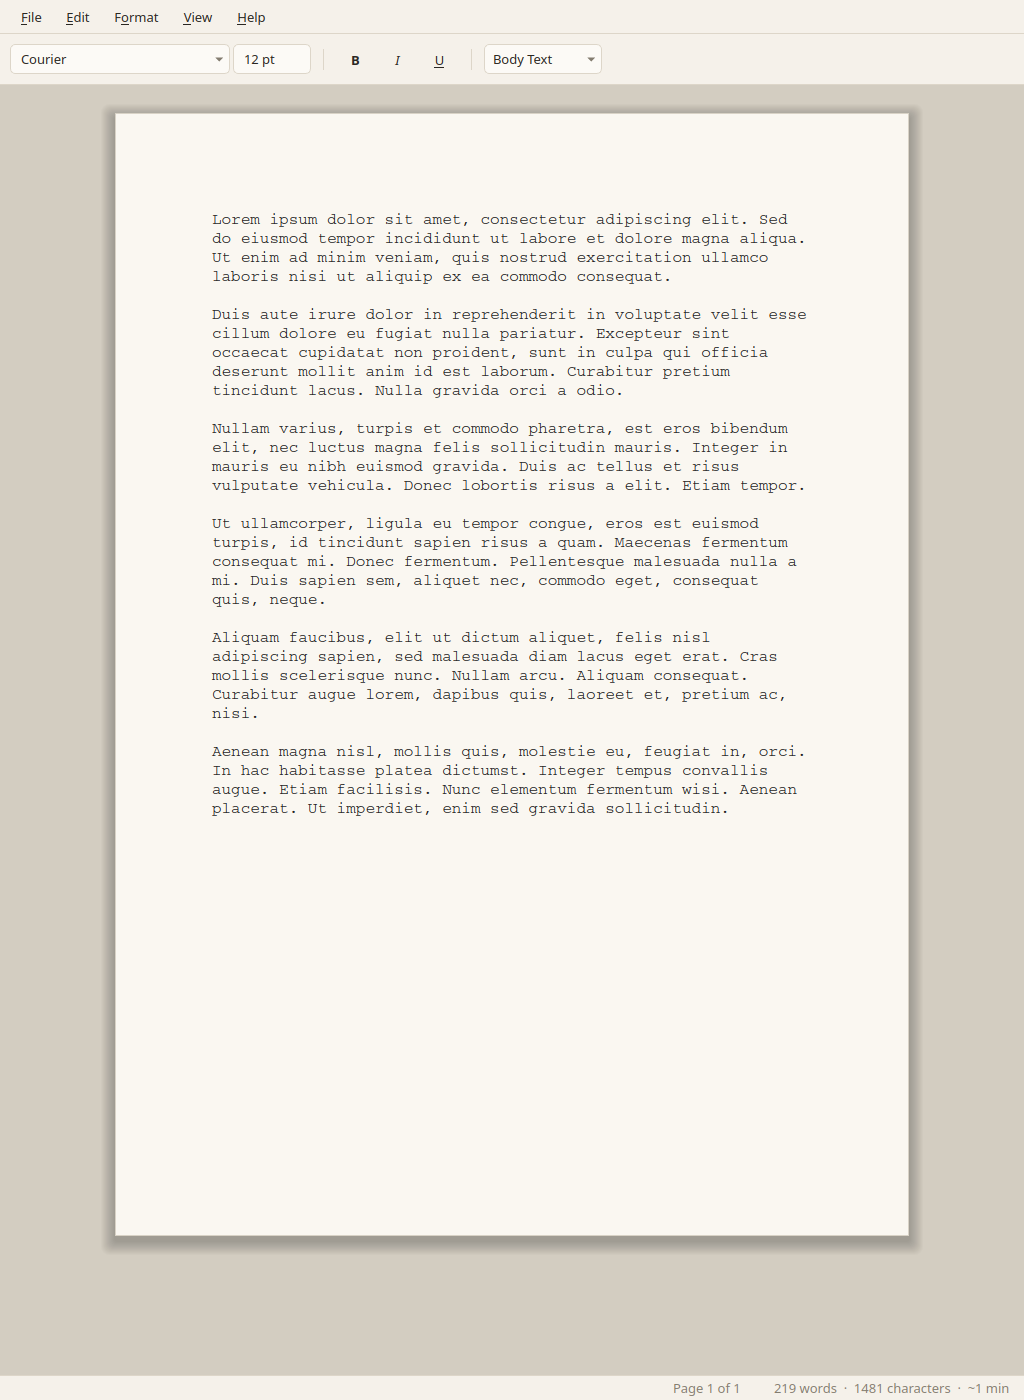
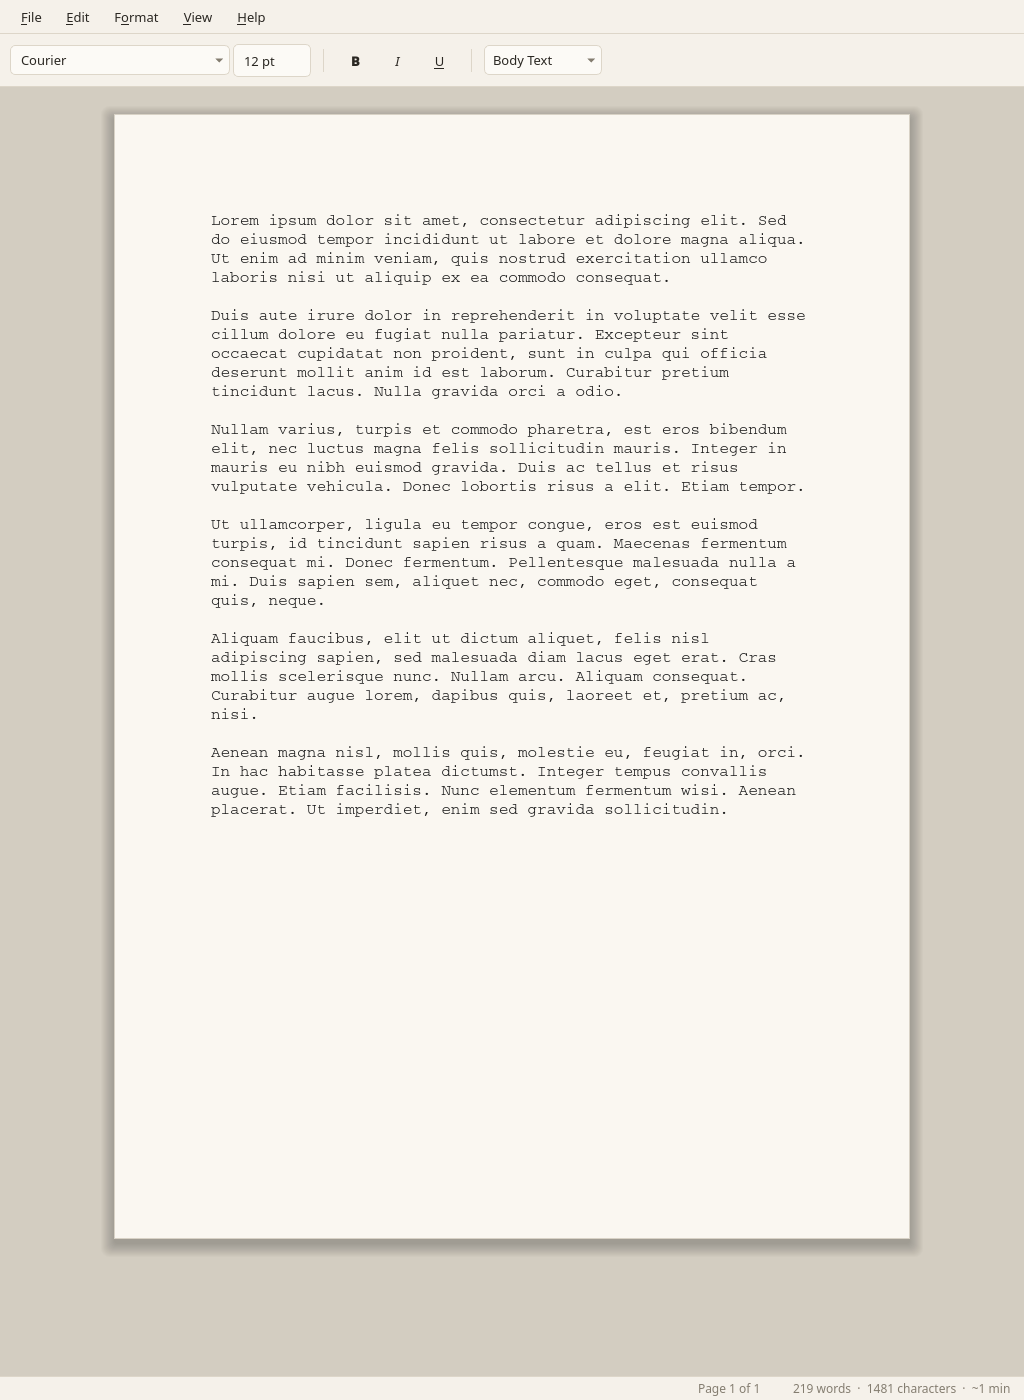
Docs: exact ODT round-trip scope, opt-in page numbers, fresh screenshots
README states what ODT round-trips and what it drops (colours, images,
footnotes, custom table borders, ...), words page numbers as opt-in/off
by default, documents ctest, and shows the new two-page screenshot.
Screenshots regenerated from the real MainWindow under Xvfb; adds
docs/screenshots/full-page-multipage.png.

diff --git a/README.md b/README.md
@@ -30,7 +30,7 @@ Working **v1 feature core** on a dark distraction-free `QTextEdit` surface.
 - **Default body face: typewriter / Courier-class monospace at 12 pt** (`Courier New` → `Courier` → `Courier Prime` → `Nimbus Mono PS` → `Liberation Mono` → `Noto Sans Mono` → `Menlo` / `Monaco` → `DejaVu Sans Mono` → `monospace`); switch/enlarge anytime via the font picker; ODT round-trip preserves face/size; print/PDF honor fonts and match Full Page density
 - **Five menus, nothing extra**: **File** (New / Open / Recent / Save / Export PDF / Print / Page Setup / Properties / Quit), **Edit** (Undo–Redo, Cut/Copy/Paste, Paste as Plain Text, Find / Replace), **Format** (B/I/U, Paragraph Style, Align, Lists, Insert Table, Table rows/columns, Insert Page Break, Page Numbers, Header & Footer, Clear Formatting), **View** (Full Page, Page Guides, Typewriter Scroll, Focus Mode, Key Sounds, Spell Check, Smart Quotes, Theme, Always Show Toolbar, Full Screen), **Help**
 - **Polished native Save/Open/Export dialogs** (Qt `QFileDialog`: Documents sidebar, last-dir via QSettings, live suffix from filter, OS overwrite confirm, Create Directory/New Folder via native panel, titles “Save Document” / “Open Document” / “Export PDF”)
-- **Native save default: ODT**; also open/save **TXT** and best-effort **RTF** (no proprietary `.zwriter`, no DOCX in v1). ODT round-trips fonts/sizes, bold/italic/underline, headings, alignment, bulleted/numbered/nested lists, tables (incl. merged cells), blank paragraphs and manual page breaks — a document reopens identically across repeated save/open cycles
+- **Native save default: ODT**; also open/save **TXT** and best-effort **RTF** (no proprietary `.zwriter`, no DOCX in v1). **What ODT round-trips:** text including repeated spaces, tabs and line breaks; font family/size; bold/italic/underline; Heading 1–3 (saved as `text:h` with an outline level, so they reopen as headings in zwriter and LibreOffice); alignment; bulleted/numbered/nested lists (nested levels keep their own numbering/bullet style, also from LibreOffice files); tables incl. merged cells; blank paragraphs; manual page breaks; header/footer text and document properties (meta.xml). After one save, further save/open cycles give the same document again (checked by `tests/odt_roundtrip_test`). **What does not:** text/highlight colours (dropped, so text follows the theme), images, footnotes, links, custom paragraph spacing/indents, and per-table styling — a reopened table always gets zwriter's standard border/padding, so custom table borders are lost. Opening a file never marks it modified
 - **Export PDF…** (export-only — not a native edit/save format) via `QPrinter` PdfFormat
 - **Print options** (lean): native OS print dialog, page setup (paper / orientation / margins; default **A4**), print preview; paper size persisted in QSettings
 - **Page guides** toggle (Ctrl+Alt+G) — simple column margin guides, not a Word ruler
@@ -45,7 +45,7 @@ Working **v1 feature core** on a dark distraction-free `QTextEdit` surface.
 - Optional typewriter key-sound toggle (**default off**) — old-manual-typewriter `key-1..6.wav` strikes (random variant per key), `space.wav` for Space/Backspace, and `return.wav` carriage slide and bell; typing/Return only (not arrow navigation)
 - Typewriter icon branding
 - **Tables** (QTextTable): Format → Insert Table…; Tab between cells; add/remove row or column; ODT + PDF/print
-- **Header & Footer** (Format → Header & Footer…): left/center/right plain-text bands; `{page}` / `{pages}` tokens; visible in Full Page, print, and PDF; ODT meta.xml round-trip; **page numbers are optional** — Format → Page Numbers toggles a centered footer `{page}` (off by default); drawn on every page
+- **Header & Footer** (Format → Header & Footer…): left/center/right plain-text bands; `{page}` / `{pages}` tokens; visible in Full Page, print, and PDF; ODT meta.xml round-trip; **page numbers are opt-in and off by default** — Format → Page Numbers adds `{page}` to an empty footer band (centre first) and removes only what it added, so custom header/footer text survives an off/on cycle; drawn on every page
 - **Manual page break** (Format → Insert Page Break, `Ctrl+Enter`): splits the paragraph and starts a new page; Backspace at the start of the new page removes it. Saved to ODT (`fo:break-before="page"`) and honoured in Full Page view, print and PDF
 - **Spell check** (View → Spell Check, default on): Hunspell en_US live underlines; right-click suggestions / ignore / add to user dictionary; no cloud grammar
 - **Help** menu: About zwriter (shows PROJECT_VERSION) + Check for Updates (GitHub releases/latest)
@@ -56,7 +56,7 @@ Working **v1 feature core** on a dark distraction-free `QTextEdit` surface.
 - Richer themes pack (beyond Paper / Dark room), autosave + restore cursor, multi-document / sessions
 - Daily word / time goal, scene / chapter navigation
 - Richer ODT/RTF style round-trip (colours, images, footnotes, per-table styling — reopened tables always get the standard border/padding); RTF is plain-text-oriented best-effort
-- ODT Properties: body save is real; metadata is patched via `unzip`/`zip` into `meta.xml` (requires those tools). If patch fails, body still saves and a status message notes it
+- ODT Properties: body save is real; metadata is patched via `unzip`/`zip` into `meta.xml` (requires those tools). If patch fails, body still saves and a status message notes it. Headings are written as `text:h` the same way (a patch of `content.xml`); without `zip` they save as styled paragraphs and reopen as body text
 - macOS `.dmg` ships the binary (not a full `.app` + macdeployqt bundle yet)
 - Status extras (pages / paragraphs) — later
 - Mouse-drag selection does not auto-scroll past the window edge in Full Page view (scroll, then shift-click); no widow/orphan control or keep-with-next
@@ -83,7 +83,7 @@ Working **v1 feature core** on a dark distraction-free `QTextEdit` surface.
 - **Smart quotes / dashes** (toggle, default **off**)
 - **Help → About** + **Check for Updates** (GitHub latest release)
 - **Tables** (insert, edit cells, add/remove row/column; ODT round-trip)
-- **Header & Footer** + page numbers (`{page}` / `{pages}`)
+- **Header & Footer** + opt-in page numbers (`{page}` / `{pages}`; off by default)
 - **Spell check** (Hunspell en_US; toggle; context suggestions)
 - Themes (Paper default + Dark room; fuller packs later)
 - Autosave + restore cursor
@@ -106,6 +106,13 @@ Working **v1 feature core** on a dark distraction-free `QTextEdit` surface.
 - Per-theme locked font packs / downloadable font store
 - OpenType feature UI
 - Word-style style gallery
+
+## Screenshots
+
+Full Page view with two true-size A4 sheets and a manual page break (more in
+[`docs/screenshots/`](docs/screenshots/README.md)):
+
+![Full Page view, two A4 pages with a manual page break](docs/screenshots/full-page-multipage.png)
 
 ## Formats
 
@@ -149,6 +156,9 @@ sudo apt-get install -y qt6-base-dev cmake ninja-build g++ unzip zip \
 cmake -B build -G Ninja
 cmake --build build
 ./build/zwriter
+
+# ODT round-trip test (needs unzip + zip; add -DZWRITER_BUILD_TESTS=OFF to skip):
+ctest --test-dir build --output-on-failure
 
 # package .deb (optional):
 cd build && cpack -G DEB

diff --git a/docs/screenshots/README.md b/docs/screenshots/README.md
@@ -1,6 +1,6 @@
 # Screenshots
 
-Captured via `./build/zwriter --capture-screenshots docs/screenshots` (xvfb-run on CI/headless).
+Captured from the real MainWindow via `./build/zwriter --capture-screenshots docs/screenshots` (xvfb-run on CI/headless). Page numbers are off by default; shots that show them turn them on explicitly.
 
 | File | Shows |
 |---|---|
@@ -11,5 +11,6 @@ Captured via `./build/zwriter --capture-screenshots docs/screenshots` (xvfb-run 
 | `editor-table.png` | Inserted QTextTable with cell editing (ODT/PDF-safe) |
 | `save-document.png` | Polished Save Document dialog — ODT default, sidebar, **New Folder**, type filter |
 | `fonts-toolbar.png` | Paper-white page + font family/size controls; sample text in typewriter + other faces |
-| `full-page.png` | Full Page view — A4 · 12 pt density · Lorem body · header/footer page # (page guides) |
+| `full-page.png` | Full Page view — A4 · 12 pt density · Lorem body · header + opt-in footer page number (page guides on) |
+| `full-page-multipage.png` | Full Page view, two true-size A4 sheets stacked on the desk; Chapter Two starts on page 2 after a manual page break (Ctrl+Enter); header + `Page {page} of {pages}` footer. Window made taller (1024×2440), page size not scaled |
 | `spell-check.png` | Spell check on — red underlines on intentional misspellings (Hunspell en_US) |
